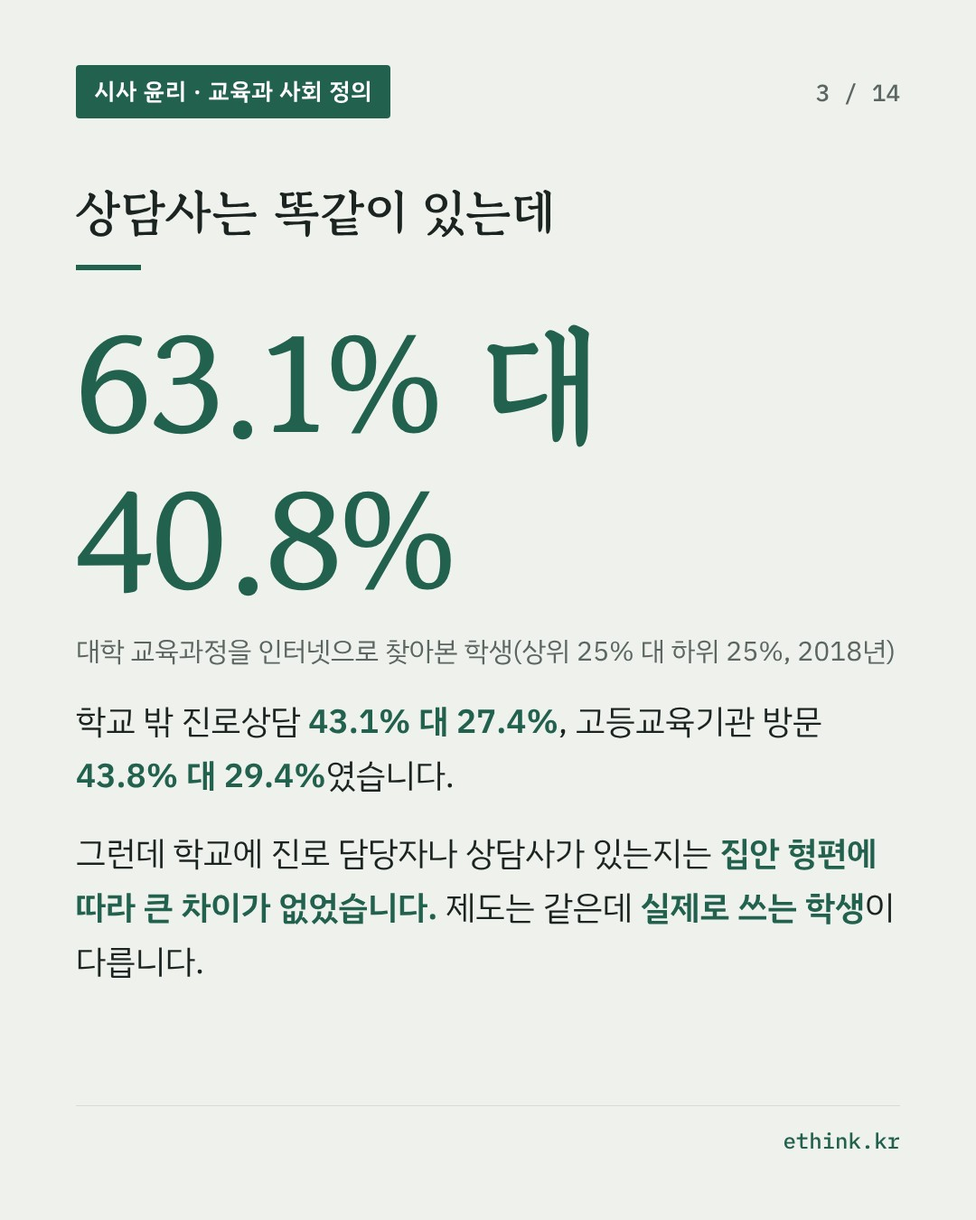
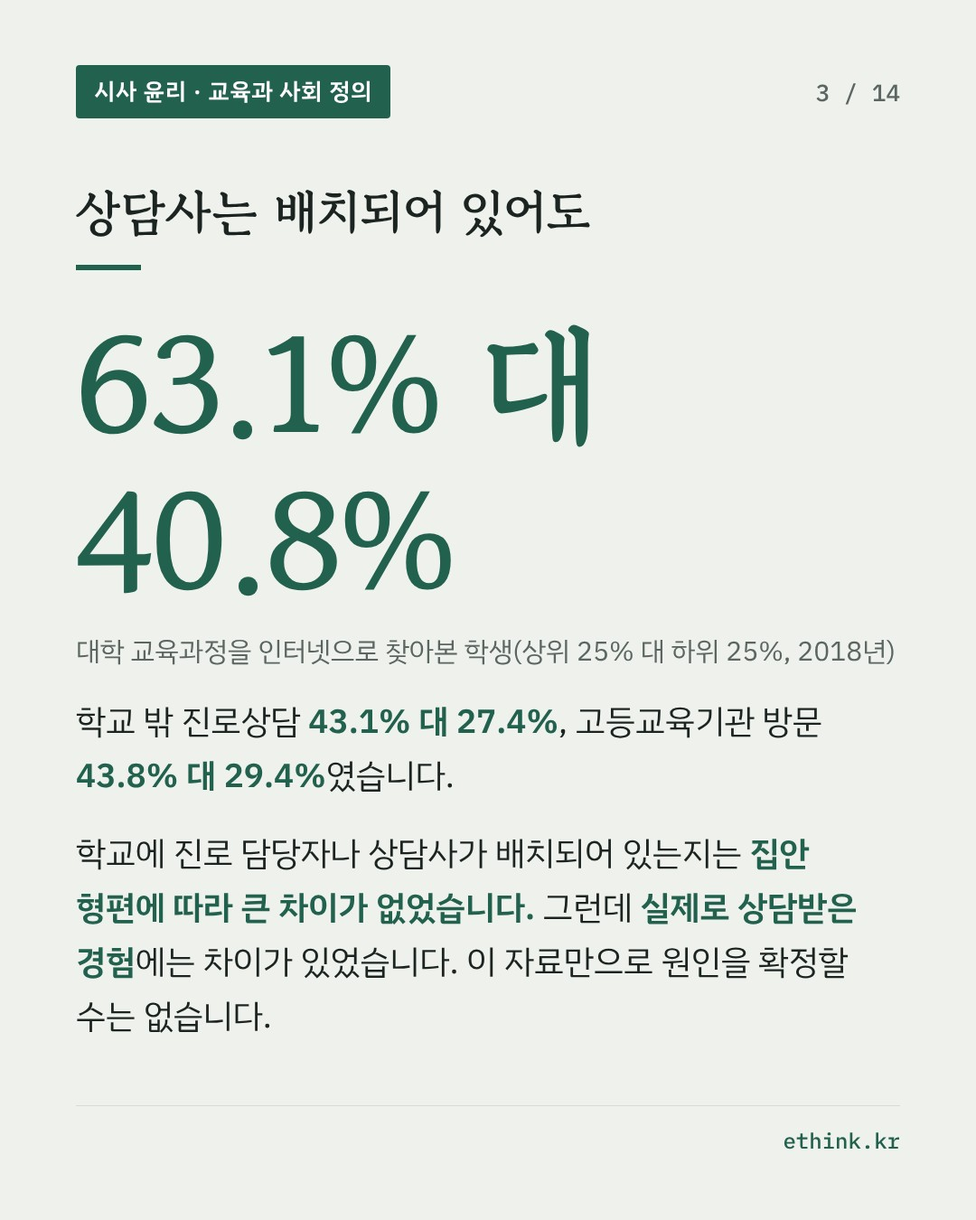
draft 11.17: GPT 검토 반영(제목·질문, 예상 직업 문항, 보도일·7% 표현, 롤스 적용 한정, 차등의 원칙, 센 적용, 카드·캡션)
Claude-Session: https://claude.ai/code/session_01KzEbiLKpw5eCcYAmid1DS3

Changed region(s): [[0.0611, 0.6844, 0.9167, 0.84], [0.275, 0.1556, 0.6111, 0.2178]]

diff --git a/_items/2026-11-17/1.md b/_items/2026-11-17/1.md
@@ -2,10 +2,10 @@
 date: 2026-11-17 09:00:00 +0900
 num: 1
 section: 교육과 사회 정의
-kicker: 국내 · 11월 15일 한국교육개발원 진로 포부 격차 분석
-title: 성적이 같아도 꿈의 크기는 다르다, 출발선은 어디서부터인가?
-question: 성적이 비슷한데 집안 형편에 따라 바라는 직업의 크기가 다르다면, 그것도 사회가 바로잡아야 할 불평등일까?
-caution: 이 글의 수치는 한국교육개발원 보고서를 전한 기사에서 가져왔습니다. 보고서 원문은 확인하지 못했습니다. 분석 자료는 국제학업성취도평가(PISA) 설문이고, 한 시점의 응답을 비교한 것이라 진로교육 경험이 포부 격차를 '만들었다'고 단정할 수는 없습니다. '기대 직업지위'가 높은 직업을 바라는 것이 더 좋은 꿈을 뜻하지는 않습니다. 전문직이 아닌 직업을 낮추어 보지 않도록 수업에서 먼저 짚어 둡니다. 학생에게 부모의 직업, 학력, 집안 형편을 밝히게 하지 않습니다. 롤스와 센의 생각을 이 조사에 대어 보는 것은 글쓴이의 적용입니다.
+kicker: 국내 · 11월 15일 보도, 한국교육개발원 진로포부 격차 분석
+title: 성적이 비슷해도 진로 전망은 다르다, 선택의 기회는 공정한가?
+question: 성적이 비슷한 학생들의 진로 전망이 가정환경에 따라 다르다면, 우리는 무엇을 개인의 선택으로 존중하고 무엇을 불평등으로 보아야 할까?
+caution: 이 글의 수치는 한국교육개발원 보고서를 전한 기사에서 가져왔습니다. 보고서 본문의 표와 분석식은 확인하지 못했습니다. 자료는 국제학업성취도평가(PISA)의 학생 설문이고, 진로포부는 학생이 30세 무렵 갖게 될 것으로 '예상한' 직업으로 잰 것입니다. 바라는 직업과 같지 않을 수 있습니다. 한 시점의 응답을 비교한 것이라 진로교육 경험이 격차를 '만들었다'고 단정할 수 없습니다. 지위가 높은 직업을 예상하는 것이 더 좋은 꿈은 아니며, 전문직이 아닌 길도 충분히 생각해서 고른 선택일 수 있습니다. 학생에게 부모의 직업, 학력, 집안 형편을 밝히게 하지 않습니다. 롤스와 센의 생각을 이 조사에 대어 보는 것은 글쓴이의 적용입니다.
 subjects: [『인문학과 윤리』 · 자유와 평등, 『통합사회2』 · 사회 정의와 불평등, 『윤리와 사상』 · 사회사상]
 lenses: [롤스 · 공정한 기회균등과 '의욕'의 출발선, 센 · 적응된 기대와 역량]
 sources:
@@ -15,19 +15,25 @@ sources:
     url: https://www.kyongbuk.co.kr/news/articleView.html?idxno=4090875
   - name: 한국경제TV (11.15)
     url: https://www.wowtv.co.kr/NewsCenter/News/Read?articleId=A202611150014
+  - name: OECD PISA 2018 학생 설문지(30세 무렵 예상 직업 문항)
+    url: https://www.oecd.org/content/dam/oecd/en/data/datasets/pisa/pisa-2018-datasets/questionnaires/STUDENTS%20questionnaire%20PISA%202018%20main.pdf
 og_image: /assets/og/2026-11-17-1.jpg
 ---
 ##### 무슨 일이 있었나
 
-11월 15일, 한국교육개발원이 보고서 「진로교육 경험이 사회경제적 지위에 따른 진로포부 격차에 미치는 영향 분석」을 냈습니다. 국제학업성취도평가(PISA) 2018년과 2022년에 참여한 한국 학생 자료를 분석했습니다. 부모의 사회경제적 지위가 상위 25%인 학생과 하위 25%인 학생이 바라는 직업의 지위(기대 직업지위 지수)를 비교했더니, 그 차이가 2018년 10.95점, 2022년 10.67점이었습니다. 지수가 높을수록 사회경제적 지위가 높은 직업입니다. 상위 집단은 이공계(STEM)나 보건·의료 같은 전문직을 바라는 비율이 높았고, 하위 집단은 비전문직을 바라거나 아직 정하지 못한 비율이 높았습니다. 읽기·수학·과학 성적이 비슷한 학생끼리 비교해도, 남학생과 여학생 모두에서 이 차이가 나타났습니다.
+11월 15일 보도로 한국교육개발원 보고서 「진로교육 경험이 사회경제적 지위에 따른 진로포부 격차에 미치는 영향 분석」이 알려졌습니다. 국제학업성취도평가(PISA) 2018년과 2022년에 참여한 한국 학생 자료를 분석한 보고서입니다. 여기서 말하는 진로포부는 학생이 30세 무렵 갖게 될 것으로 예상한 직업을 바탕으로 잰 것입니다. 그러니 이 결과에는 학생의 바람뿐 아니라, 자신에게 가능하다고 여기는 진로 전망도 담겨 있습니다.
 
-진로를 알아보는 경험에도 차이가 있었습니다(2018년 자료). 대학 교육과정을 인터넷으로 찾아본 학생은 상위 집단 63.1%, 하위 집단 40.8%였습니다. 학교 밖 진로상담사를 만난 학생은 43.1%와 27.4%, 대학 같은 고등교육기관을 방문한 학생은 43.8%와 29.4%, 교내 진로상담사를 만난 학생은 70.5%와 58.8%였습니다. 그런데 학교에 진로지도 담당자나 상담사가 있는지는 집안 형편에 따라 큰 차이가 없었습니다. 상담사는 똑같이 있는데 상담을 받는 학생이 다른 것입니다. 진로교육 경험을 통계 모형에 넣으면 포부 격차가 약 7% 줄었습니다. 연구진은 중학교 3학년과 고등학교 1학년에게 1년에 한 번 이상, 30분 이상의 개별 진로상담을 보장하고, 형편이 어려운 학생에게 진로 정보와 멘토링, 학업 지원을 이어 주자고 제안했습니다.
+부모의 사회경제적 지위가 상위 25%인 학생과 하위 25%인 학생이 예상한 직업의 지위(기대 직업지위 지수)를 비교했더니, 그 차이가 2018년 10.95점, 2022년 10.67점이었습니다. 지수가 높을수록 사회경제적 지위가 높은 직업입니다. 상위 집단은 이공계(STEM)나 보건·의료 같은 전문직을 예상한 비율이 높았고, 하위 집단은 비전문직을 예상하거나 아직 정하지 못한 비율이 높았습니다. 읽기·수학·과학 성적이 비슷한 학생끼리 비교해도, 남학생과 여학생 모두에서 이 차이가 나타났습니다.
+
+진로를 알아보는 경험에도 차이가 있었습니다(2018년 자료). 대학 교육과정을 인터넷으로 찾아본 학생은 상위 집단 63.1%, 하위 집단 40.8%였습니다. 학교 밖 진로상담사를 만난 학생은 43.1%와 27.4%, 대학 같은 고등교육기관을 방문한 학생은 43.8%와 29.4%, 교내 진로상담사를 만난 학생은 70.5%와 58.8%였습니다. 학교에 진로지도 담당자나 상담사가 배치되어 있는지는 집안 형편에 따라 큰 차이가 없었습니다. 그런데 학생들이 실제로 상담받은 경험에는 차이가 있었습니다. 보도에 따르면, 진로교육 경험 변수를 더한 통계 모형에서는 지위에 따른 기대 직업지위 격차가 약 7% 작게 추정되었습니다. 상담을 해 보았더니 격차가 7% 줄었다는 뜻은 아닙니다. 연구진은 중학교 3학년과 고등학교 1학년에게 1년에 한 번 이상, 30분 이상의 개별 진로상담을 보장하고, 형편이 어려운 학생에게 진로 정보와 멘토링, 학업 지원을 이어 주자고 제안했습니다.
+
+정리하면 세 가지입니다. 성적이 비슷해도 진로 전망에 차이가 있다. 진로를 알아보는 경험에도 차이가 있다. 이 자료만으로 원인을 확정할 수는 없다.
 
 ##### 왜 윤리 문제인가
 
-입시와 취업의 기회가 고르지 않다는 이야기는 익숙합니다. 출발선이 다른 학생에게 같은 기준을 요구하는 문제는 [지난 글](/weekly/2026-10-29/1/)에서 다루었습니다. 이번 조사는 그보다 앞을 봅니다. 경쟁에 나서기 전에, 무엇을 바랄지부터 다릅니다.
+예상하는 직업이 다르다는 것만으로 불평등이라고 할 수는 없습니다. 전문직이 아닌 길을 고르는 것도 충분히 생각한 끝의 선택일 수 있습니다. 모든 학생이 전문직을 바라게 하는 것은 목표가 될 수 없습니다. 그렇다면 무엇이 문제일까? 그 차이가 충분히 알아보고 스스로 고른 데서 나왔는지, 정보와 지원이 모자란 데서 나왔는지가 문제입니다.
 
-그렇다면 질문은 이렇게 됩니다. 성적이 같은데 꿈의 크기가 다르다면, 그것은 개인의 선택일까, 사회가 바로잡아야 할 불평등일까? 학생이 스스로 원해서 그 직업을 골랐다면 문제 삼을 이유가 없어 보입니다. 그런데 그 '원함'이 무엇을 보고 들었는지, 누구와 이야기해 보았는지에 따라 만들어진 것이라면 이야기가 달라집니다. 이 물음을 롤스와 센으로 읽어 봅니다.
+출발선이 다른 학생에게 같은 기준을 요구하는 문제는 [지난 글](/weekly/2026-10-29/1/)에서 다루었습니다. 이번 조사는 그보다 앞을 봅니다. 경쟁에 나서기 전에, 자신에게 어떤 길이 가능하다고 여기는지부터 다릅니다. 그렇다면 질문은 이렇게 됩니다. 학생의 선택은 어디까지 개인의 몫이고, 어디부터 사회가 살펴야 할 기회의 문제일까? 이 물음을 롤스와 센으로 읽어 봅니다.
 
 ##### 롤스로 읽기: 의욕까지도 출발선이다
 
@@ -40,9 +46,11 @@ og_image: /assets/og/2026-11-17-1.jpg
 <figcaption><span class="who">롤스</span><span class="from">출처: 롤스, 『정의론』(황경식 옮김, 이학사)</span></figcaption>
 </figure>
 
-성적이 비슷한 학생은 '능력이 비슷한' 학생입니다. 롤스의 기준대로라면 이 학생들의 전망은 부모의 지위와 상관없이 같아야 합니다. 조사 결과는 그렇지 않습니다. 롤스는 같은 대목에서 학교의 몫도 분명히 말합니다. "문화적인 지식이나 기능을 획득하는 기회가 우리의 계급적 지위에 따라 결정되어서는 안 되며, 따라서 공립이든 사립이든 학교 제도는 계급의 장벽을 철폐시키도록 기획되어야 할 것이다." 그런데 상담을 실제로 받는 학생은 집안 형편에 따라 다릅니다. 상담사를 배치한 것만으로는 장벽을 허물었다고 하기 어렵습니다.
+학업 성취도가 비슷하다고 능력 전반이 같다고 할 수는 없습니다. 학생이 예상한 직업이 곧 롤스가 말한 '지위와 직책을 얻을 기회'인 것도 아닙니다. 그러니 이 조사로 롤스의 원칙이 어겨졌다고 증명할 수는 없습니다. 다만 물음은 남깁니다. 학업 성취도가 비슷한 학생 사이에서도 가정환경에 따라 진로 전망이 달랐습니다. 학생들이 지위와 직책을 얻을 기회를 실제로 고르게 누리고 있는가?
 
-그런데 롤스의 기준에는 빈틈이 하나 있습니다. '동일한 의향', '동일한 포부'를 가진 사람끼리 비교한다는 조건입니다. 이번 조사처럼 포부부터 다르다면 비교할 출발점이 흔들립니다. 롤스는 이 점을 알고 있었습니다.
+롤스는 같은 대목에서 학교의 몫도 분명히 말합니다. "문화적인 지식이나 기능을 획득하는 기회가 우리의 계급적 지위에 따라 결정되어서는 안 되며, 따라서 공립이든 사립이든 학교 제도는 계급의 장벽을 철폐시키도록 기획되어야 할 것이다." 상담사가 배치되어 있어도 실제로 상담받은 경험이 집안 형편에 따라 다르다면, 배치만으로 장벽을 허물었다고 하기는 어렵습니다.
+
+그런데 롤스의 기준에는 조건이 붙어 있습니다. '동일한 의향', '동일한 포부'를 가진 사람끼리 비교한다는 조건입니다. 그 포부부터 가정환경의 영향을 받는다면? 롤스는 이 점을 알고 있었습니다.
 
 <figure class="src">
 <blockquote>
@@ -51,7 +59,7 @@ og_image: /assets/og/2026-11-17-1.jpg
 <figcaption><span class="who">롤스</span><span class="from">출처: 롤스, 『정의론』(황경식 옮김, 이학사)</span></figcaption>
 </figure>
 
-즉, 의욕도 출발선의 일부입니다. 롤스는 이것을 '운'이라고 불렀습니다. 길벗 『인문학과 윤리』는 롤스가 말한 운을 이렇게 풀이합니다.
+즉, 의욕도 출발선의 일부입니다. 롤스는 이런 조건을 '운'이라고 불렀습니다. 길벗 『인문학과 윤리』는 롤스가 말한 운을 이렇게 풀이합니다.
 
 <figure class="src">
 <blockquote>
@@ -60,20 +68,11 @@ og_image: /assets/og/2026-11-17-1.jpg
 <figcaption><span class="from">출처: 『인문학과 윤리』(길벗) 95쪽</span></figcaption>
 </figure>
 
-어떤 집에서 태어나는지는 내가 고를 수 없습니다. 롤스는 그것을 바로잡을 수 없다고 해서 그냥 두지는 않았습니다. 기회를 완전히 같게 할 수 없다면, 불평등이 가장 불리한 사람에게 이익이 되도록 제도를 짜자는 것이 차등의 원칙입니다. 롤스가 드는 예는 교육입니다.
+어떤 집에서 태어나는지는 내가 고를 수 없습니다. 롤스는 공정한 기회균등을 요구하는 한편, 사회적·경제적 불평등이 최소 수혜자에게 최대의 이익이 되도록 제도를 짜야 한다고 보았습니다(차등의 원칙, 길벗 『인문학과 윤리』 99쪽). 두 원칙은 함께 지켜야 합니다. 롤스는 이 대목에서 교육을 예로 들며, 교육의 가치를 경제적 효율로만 재서는 안 된다고 말합니다. 교육은 "각자에게 자신의 가치에 대한 확고한 신념을 갖도록 해주는" 일이기도 하다는 것입니다. 연구진이 제안한 개별 진로상담과 멘토링은 불리한 여건에 놓인 학생의 실질적인 기회를 넓히는 지원으로 읽을 수 있습니다.
 
-<figure class="src">
-<blockquote>
-<p>차등의 원칙은 예를 들어 교육에 재원을 할당함으로써 장기적으로 볼 때 최소 수혜자의 기대치를 향상시켜주게 된다. (…) 그리고 이러한 결정을 함에 있어서 교육의 가치는 경제적 효율성이나 사회 복지만을 통해서 평가되어서는 안 된다. 그에 못지않게 주요한 교육의 역할은 인간으로 하여금 자기 사회의 문화를 향유하도록 해주며 그 과업에 참여하게 함으로써 각자에게 자신의 가치에 대한 확고한 신념을 갖도록 해주는 것이다.</p>
-</blockquote>
-<figcaption><span class="who">롤스</span><span class="from">출처: 롤스, 『정의론』(황경식 옮김, 이학사)</span></figcaption>
-</figure>
+##### 센으로 읽기: 가능하다고 여기는 길이 좁아질 때
 
-연구진이 제안한 개별 진로상담과 멘토링은 롤스의 말로 하면 '최소 수혜자의 기대치'를 끌어올리는 일입니다. 다만 롤스가 덧붙인 대로, 그 가치는 더 높은 직업을 얻게 하는 데서 끝나지 않습니다. 학생이 자기 가치에 대한 믿음을 갖게 하는 것, 그것도 교육의 몫입니다.
-
-##### 센으로 읽기: 바라는 것마저 줄어들 때
-
-아마티아 센(1933~ )은 인도 출신의 경제학자이자 철학자로, 1998년 노벨경제학상을 받았습니다. 센은 사람들의 만족이나 바람만으로 삶의 질을 재면 틀리기 쉽다고 보았습니다. 까닭은 이렇습니다. 오래 어려운 처지에 있던 사람은 바라는 것 자체를 줄입니다.
+아마티아 센(1933~ )은 인도 출신의 경제학자이자 철학자로, 1998년 노벨경제학상을 받았습니다. 센은 사람들의 만족이나 바람만으로 처지를 재면 틀리기 쉽다고 보았습니다. 까닭은 이렇습니다. 오래 어려운 처지에 있던 사람은 그 처지에 맞추어 바라는 것을 조정합니다.
 
 <figure class="src">
 <blockquote>
@@ -82,7 +81,7 @@ og_image: /assets/og/2026-11-17-1.jpg
 <figcaption><span class="who">센</span><span class="from">출처: 센, 『자유로서의 발전』(김원기 옮김, 갈라파고스)</span></figcaption>
 </figure>
 
-이 생각을 이번 조사에 대어 보면, "아직 정하지 못했다"거나 "그 정도면 됐다"는 학생의 대답을 그대로 그 학생의 뜻이라고 받아들이기 어렵습니다. 대학 교육과정을 찾아본 적이 없고 학교 밖에서 상담을 받아 본 적도 없다면, 고를 수 있는 길이 처음부터 좁았을 수 있습니다. 그렇다면 무엇을 봐야 할까? 센은 사람들이 실제로 고를 수 있는 삶의 폭을 보라고 말합니다.
+그렇다고 특정 학생의 선택을 곧바로 '조정된 기대'라고 판정할 수는 없습니다. 이번 조사가 개별 학생의 속마음을 확인한 것도 아닙니다. 학생의 선택은 존중해야 합니다. 다만 그 선택을 이해하려면, 어떤 정보를 접했고 어떤 길을 실제로 고를 수 있었는지도 함께 살펴야 합니다. 대학 교육과정을 찾아본 적이 없고 학교 밖에서 상담을 받아 본 적도 없다면, 가능하다고 여긴 길이 처음부터 좁았을 수 있습니다. 센이 보라고 한 것도 그 조건입니다.
 
 <figure class="src">
 <blockquote>
@@ -91,7 +90,7 @@ og_image: /assets/og/2026-11-17-1.jpg
 <figcaption><span class="who">센</span><span class="from">출처: 센, 『자유로서의 발전』(김원기 옮김, 갈라파고스)</span></figcaption>
 </figure>
 
-센은 이 '고를 수 있는 삶의 폭'을 역량(capability)이라고 불렀습니다.
+센은 실제로 고를 수 있는 삶의 폭을 역량(capability)이라고 불렀습니다.
 
 <figure class="src">
 <blockquote>
@@ -100,35 +99,35 @@ og_image: /assets/og/2026-11-17-1.jpg
 <figcaption><span class="who">센</span><span class="from">출처: 센, 『자유로서의 발전』(김원기 옮김, 갈라파고스)</span></figcaption>
 </figure>
 
-센은 같은 책에서 예를 듭니다. 부유한 사람이 단식하는 것과 가난한 사람이 굶는 것은 먹지 않았다는 결과가 같습니다. 그러나 한쪽은 먹을 수 있는데 먹지 않은 것이고, 다른 쪽은 먹을 수 없어서 못 먹은 것입니다. 진로도 마찬가지입니다. 여러 길을 알아보고 나서 전문직이 아닌 길을 고른 학생과, 다른 길이 있는지 몰라서 그 길에 선 학생은 결과가 같아도 역량이 다릅니다.
+여기서 역량은 개인의 재능이나 직업 정보의 양을 말하지 않습니다. 자신이 가치 있게 여기는 삶을 실제로 고르고 살아갈 수 있는 자유입니다. 센은 같은 책에서 예를 듭니다. 부유한 사람이 단식하는 것과 가난한 사람이 굶는 것은 먹지 않았다는 결과가 같습니다. 그러나 한쪽은 먹을 수 있는데 먹지 않은 것이고, 다른 쪽은 먹을 수 없어서 못 먹은 것입니다. 진로도 마찬가지입니다. 여러 길을 알아보고 나서 전문직이 아닌 길을 고른 학생과, 다른 길이 있는지 몰라서 그 길에 선 학생은 결과가 같아도 역량이 다릅니다.
 
-롤스는 같은 포부를 가진 사람끼리 전망을 같게 하자고 했습니다. 센은 한 걸음 더 들어가, 그 포부가 어떤 조건에서 생겼는지 묻습니다. 그렇다면 진로교육의 목표는 무엇일까? 모든 학생이 전문직을 바라게 하는 것은 목표가 될 수 없습니다. 학생이 "자신이 영위하고 싶은 삶"을 알고 고를 수 있게 하는 것. 즉, 역량을 넓히는 일입니다. 『통합사회1』 교과서에도 민주주의와 삶의 질을 다룬 센의 글이 실려 있습니다.
+두 사람은 이번 사례에서 서로 다른 곳을 비춥니다. 롤스의 논의는 학생들이 누리는 기회가 공정한지 살펴보게 합니다. 센의 논의는 학생이 표현한 바람뿐 아니라, 실제로 고를 수 있는 삶의 범위까지 함께 살펴보게 합니다. 진로교육이 할 일은 학생이 "자신이 영위하고 싶은 삶"을 알고 고를 수 있게 하는 것. 즉, 역량을 넓히는 일입니다.
 
 ##### 수업에서 쓰는 법
 
-이 사례에서는 롤스로 "출발선은 어디까지 같아야 하는가"를, 센으로 "학생이 바라는 것을 그대로 믿어도 되는가"를 다룹니다. 수치는 기사로 확인한 것만 씁니다. 그리고 먼저 짚어 둡니다. 이 조사가 보여 준 것은 차이입니다. 원인까지 밝히지는 않았습니다.
+이 사례에서는 롤스로 "학생들이 누리는 기회는 공정한가"를, 센으로 "학생의 선택을 존중하면서, 그 선택이 이루어진 조건은 어떻게 살펴볼 수 있을까"를 다룹니다. 수치는 기사로 확인한 것만 씁니다. 그리고 먼저 짚어 둡니다. 이 조사가 보여 준 것은 차이입니다. 원인까지 밝히지는 않았습니다.
 
 <figure class="fig">
-<p class="fig-title">제도, 경험, 포부: 어디에서 차이가 났나</p>
+<p class="fig-title">제도, 경험, 진로 전망: 어디에서 차이가 났나</p>
 <div class="scale scale-three">
-<div class="scale-cell"><p class="scale-head">제도</p><p>학교에 진로지도 담당자와 상담사가 있는가</p><p class="scale-ex">집안 형편에 따라 큰 차이가 없음</p></div>
+<div class="scale-cell"><p class="scale-head">제도</p><p>학교에 진로지도 담당자와 상담사가 배치되어 있는가</p><p class="scale-ex">집안 형편에 따라 큰 차이가 없음</p></div>
 <div class="scale-cell"><p class="scale-head">경험</p><p>상담을 받고, 대학 정보를 찾아보고, 기관을 방문해 보았는가</p><p class="scale-ex">대학 교육과정 검색 63.1% 대 40.8%, 학교 밖 상담 43.1% 대 27.4%</p></div>
-<div class="scale-cell scale-cell-strong"><p class="scale-head">포부</p><p>어떤 직업을 바라는가, 정했는가</p><p class="scale-ex">기대 직업지위 지수 차이 10.67점(2022년), 성적이 비슷해도 나타남</p></div>
+<div class="scale-cell scale-cell-strong"><p class="scale-head">진로 전망</p><p>30세 무렵 어떤 직업을 갖게 될 것으로 예상하는가, 정했는가</p><p class="scale-ex">기대 직업지위 지수 차이 10.67점(2022년), 성적이 비슷해도 나타남</p></div>
 </div>
-<p class="fig-note">세 칸의 구분은 이 글의 정리입니다. 경험의 차이가 포부의 차이를 만들었다고 단정할 수는 없습니다(진로교육 경험을 넣으면 격차가 약 7% 줄었다는 것까지가 보고된 결과입니다).</p>
+<p class="fig-note">세 칸의 구분은 이 글의 정리입니다. 경험의 차이가 진로 전망의 차이를 만들었다고 단정할 수는 없습니다(진로교육 경험 변수를 더한 모형에서 격차가 약 7% 작게 추정되었다는 것까지가 보도된 결과입니다).</p>
 </figure>
 
 <figure class="fig">
 <p class="fig-title">수업 흐름</p>
 <ol class="flow">
-<li><span class="flow-step">사실 정리하기</span><br>
-<span class="flow-desc">보고서를 전한 기사에서 확인된 수치와, 확인되지 않은 것(보고서 원문, '약 7%'의 정확한 뜻, 원인 관계)을 나누어 적는다. '기대 직업지위가 높다'는 말과 '더 좋은 꿈'은 다르다는 것도 함께 확인한다</span></li>
+<li><span class="flow-step">사실과 해석 나누기</span><br>
+<span class="flow-desc">기사에서 확인된 수치와, 확인되지 않은 것(보고서 본문, '약 7%'의 정확한 뜻, 원인 관계)을 나누어 적는다. 조사가 잰 것이 '바라는 직업'이 아니라 '예상하는 직업'이라는 점, 지위가 높은 직업을 예상하는 것이 더 좋은 꿈은 아니라는 점도 함께 확인한다</span></li>
 <li><span class="flow-step">롤스로 읽기</span><br>
-<span class="flow-desc">길벗 『인문학과 윤리』 95쪽(롤스가 말하는 운)과 99쪽(정의의 두 원칙)을 읽고, '같은 능력, 같은 포부'라는 조건이 이번 조사에서 왜 흔들리는지 설명한다</span></li>
+<span class="flow-desc">길벗 『인문학과 윤리』 95쪽(롤스가 말하는 운)과 99쪽(정의의 두 원칙)을 읽고, '같은 능력, 같은 포부'라는 조건이 이번 사례에서 왜 따져 볼 문제가 되는지 설명한다</span></li>
 <li><span class="flow-step">원초적 입장에서 정하기</span><br>
-<span class="flow-desc">길벗 『인문학과 윤리』 96~97쪽 「실천하는 인문학: '원초적 입장'에서 정의의 원칙 만들기」의 장학금 상황을 바꾸어, 학교의 진로상담 시간을 학생들에게 어떻게 나눌지 원칙을 정한다. 1단계는 내가 누구인지 모르는 채로, 2단계는 상황 카드를 받고 정한 뒤 두 결과를 비교한다</span></li>
+<span class="flow-desc">길벗 『인문학과 윤리』 96~97쪽 「실천하는 인문학: '원초적 입장'에서 정의의 원칙 만들기」의 장학금 상황을 바꾸어, 학교의 진로상담 시간을 나누는 원칙을 정한다. 모두에게 보장할 기본 상담 시간과 추가 지원 시간을 나누어 정한다. 1단계는 내가 누구인지 모르는 채로, 2단계는 가상의 상황 카드를 받고 정한 뒤 두 결과를 비교한다</span></li>
 <li><span class="flow-step">센으로 다시 보기</span><br>
-<span class="flow-desc">"학생이 원하는 대로 상담하면 충분하다"는 주장을 센의 '적응된 기대'로 검토한다. 아래 표에 지원 방안을 롤스와 센의 눈으로 각각 평가한다</span></li>
+<span class="flow-desc">"학생이 신청하는 대로 상담하면 충분하다"는 주장을 센의 '적응'과 '역량'으로 검토한다. 학생의 선택을 존중하면서도 그 선택이 이루어진 조건을 살피는 방법을 찾고, 아래 표에 지원 방안을 롤스와 센의 눈으로 각각 평가한다</span></li>
 </ol>
 </figure>
 
@@ -136,14 +135,14 @@ og_image: /assets/og/2026-11-17-1.jpg
 <colgroup><col style="width:22%"><col style="width:26%"><col style="width:26%"><col style="width:26%"></colgroup>
 <thead><tr><th>지원 방안</th><th>롤스로 보면</th><th>센으로 보면</th><th>우리 학교에서 하려면</th></tr></thead>
 <tbody>
-<tr class="tbl-ex"><td>중3·고1 개별 진로상담 연 1회 30분 이상 보장</td><td>예: 상담 기회를 실제로 고르게 하므로 공정한 기회균등에 다가간다</td><td>예: 학생이 몰랐던 길을 알게 해 고를 수 있는 삶의 폭을 넓힌다</td><td>예: 상담을 신청하지 않은 학생에게 먼저 시간을 잡는다</td></tr>
+<tr class="tbl-ex"><td>중3·고1 개별 진로상담 연 1회 30분 이상 보장</td><td>예: 상담 기회를 실제로 고르게 해 공정한 기회균등에 다가간다</td><td>예: 학생이 몰랐던 길을 알게 해 고를 수 있는 삶의 폭을 넓힌다</td><td>예: 상담을 신청하지 않은 학생에게 먼저 시간을 잡는다</td></tr>
 <tr><td>(모둠이 정한 방안)</td><td></td><td></td><td></td></tr>
 <tr><td>(모둠이 정한 방안)</td><td></td><td></td><td></td></tr>
 </tbody>
 </table>
 
-첫 줄은 예시로 보여 주고, 나머지는 모둠이 채웁니다. 활동에 앞서 자기 집안 형편이나 부모의 직업을 말하지 않아도 된다고 알려 줍니다. 상황 카드도 학생 자신의 이야기가 아닌 가상의 인물로 만듭니다. 평가에서는 롤스의 '공정한 기회균등'과 센의 '역량'을 사례에 정확히 적용했는지를 봅니다. 어느 쪽 주장을 골랐는지는 따지지 않습니다.
+첫 줄은 예시로 보여 주고, 나머지는 모둠이 채웁니다. 활동에 앞서 자기 집안 형편이나 부모의 직업을 말하지 않아도 된다고 알려 줍니다. 상황 카드도 학생 자신의 이야기가 아닌 가상의 인물로 만듭니다. 평가에서는 세 가지를 봅니다. 롤스의 '공정한 기회균등'과 센의 '역량'을 사례에 정확히 적용했는가. 자료가 말하는 사실과 자신의 해석을 나누었는가. 반론에 근거를 들어 답했는가. 어느 쪽 주장을 골랐는지는 따지지 않습니다.
 
-이 사례로 탐구 보고서를 쓰려는 학생에게는 두 가지 주제를 권합니다. 첫째, 학교에 있는 진로 지원 제도(진로상담, 진로 체험, 대학 탐방 등)를 조사하고, 학생들이 그 제도를 얼마나 고르게 쓰는지 알아볼 방법을 설계하는 주제입니다. 이때 개인의 형편을 묻지 않는 방법을 함께 고민합니다. 둘째, 롤스의 '공정한 기회균등'과 센의 '역량 접근'을 비교해, 교육 불평등을 무엇으로 재야 하는지(성적, 기회, 포부, 실제로 고를 수 있는 길) 정리하는 주제입니다.
+이 사례로 탐구 보고서를 쓰려는 학생에게는 두 가지 주제를 권합니다. 첫째, 학교에 있는 진로 지원 제도(진로상담, 진로 체험, 대학 탐방 등)를 조사하고, 학생들이 그 제도를 얼마나 고르게 쓰는지 알아볼 방법을 설계하는 주제입니다. 이때 개인의 형편을 묻지 않는 방법을 함께 고민합니다. 둘째, 롤스의 '공정한 기회균등'과 센의 '역량 접근'을 비교해, 교육 불평등을 무엇으로 재야 하는지(성적, 기회, 진로 전망, 실제로 고를 수 있는 길) 정리하는 주제입니다.
 
-마무리 질문은 학생에게 돌려줍니다. 나는 지금 바라는 진로를 어떻게 알게 되었는가. 내가 아직 모르는 길이 있다면, 그것을 알게 해 줄 책임은 누구에게 있는가.
+마무리 질문은 학생에게 돌려줍니다. 나는 지금 생각하는 진로를 어떻게 알게 되었는가. 그리고 학생이 스스로 찾아 나서지 않아도, 학교가 먼저 보장해야 할 진로 탐색의 기회는 무엇인가.
